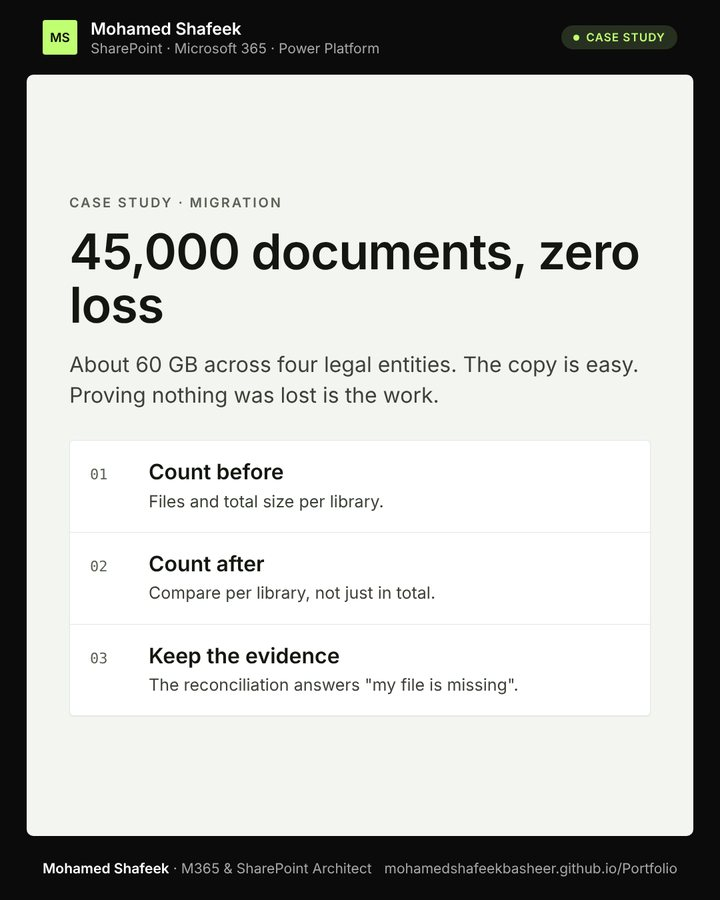
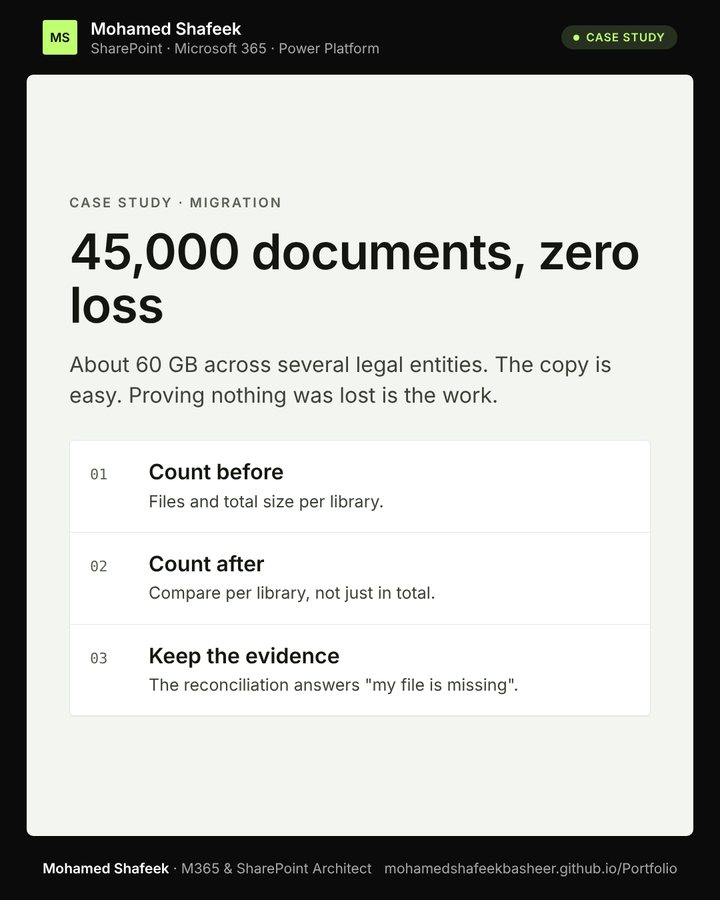
Take client, region and dates out of the case studies
Case studies now show the area of work and the platform instead of the
client, region and dates, and their text no longer describes the client
organisation or where it is, so a project can't be matched to an employer
on LinkedIn. The note versions of the case studies follow the same rule.

Claude-Session: https://claude.ai/code/session_01T1K7vMm3kBfTxoGymEFp43

Changed region(s): [[0.0917, 0.3733, 0.8861, 0.4667]]

diff --git a/src/pages.jsx b/src/pages.jsx
@@ -21,16 +21,15 @@ function CaseTable({ items }) {
     <div className="tableWrap">
       <table className="table">
         <thead>
-          <tr><th scope="col">Ref</th><th scope="col">Engagement</th><th scope="col" className="hideMd">Client</th><th scope="col" className="hideSm">Region</th><th scope="col" className="hideMd">Length</th><th scope="col">Status</th></tr>
+          <tr><th scope="col">Ref</th><th scope="col">Engagement</th><th scope="col" className="hideMd">Area</th><th scope="col" className="hideSm">Platform</th><th scope="col">Status</th></tr>
         </thead>
         <tbody>
           {items.map((w) => (
             <tr key={w.slug}>
               <td className="cellRef">{w.ref}</td>
               <td className="wrap"><Link href={`/work/${w.slug}/`}>{w.title}</Link></td>
-              <td className="cellMuted hideMd">{w.client}</td>
-              <td className="cellMuted hideSm">{w.region}</td>
-              <td className="cellMuted hideMd">{w.duration}</td>
+              <td className="cellMuted hideMd">{w.kind}</td>
+              <td className="cellMuted hideSm">{w.stack.slice(0, 3).join(", ")}</td>
               <td><StatusPill status={w.status} /></td>
             </tr>
           ))}
@@ -172,9 +171,8 @@ function Case({ c }) {
           <p className="reportLede">{c.summary}</p>
         </header>
         <dl className="facts">
-          <div><dt>Client</dt><dd>{c.client}</dd></div>
-          <div><dt>Region</dt><dd>{c.region}</dd></div>
-          <div><dt>Length</dt><dd>{c.duration}</dd></div>
+          <div><dt>Area</dt><dd>{c.kind}</dd></div>
+          <div><dt>Platform</dt><dd>{c.stack.slice(0, 4).join(", ")}</dd></div>
           <div><dt>Result</dt><dd>{c.result}</dd></div>
         </dl>
 
@@ -208,7 +206,7 @@ function Case({ c }) {
         </section>
 
         <footer className="reportFoot">
-          {c.ref} · {SITE.name} · Figures are from the delivery records of the engagement. Some clients are anonymised.
+          {c.ref} · {SITE.name} · Figures are from the delivery records of the engagement. Client details are kept confidential.
         </footer>
       </article>
 

diff --git a/src/styles.css b/src/styles.css
@@ -323,7 +323,7 @@ h3 { font-size: var(--ms-size-h3); }
 .reportMeta { display: flex; flex-wrap: wrap; align-items: center; gap: var(--ms-space-2) var(--ms-space-3); margin-bottom: var(--ms-space-3); }
 .reportTitle { font-size: var(--ms-size-h1); }
 .reportLede { font-size: var(--ms-size-lede); line-height: var(--ms-leading-read); margin: var(--ms-space-3) 0 0; }
-.facts { display: grid; grid-template-columns: repeat(4, minmax(0, 1fr)); margin: 0; background: var(--ms-mist); border-bottom: 1px solid var(--ms-hairline-light); }
+.facts { display: grid; grid-template-columns: repeat(3, minmax(0, 1fr)); margin: 0; background: var(--ms-mist); border-bottom: 1px solid var(--ms-hairline-light); }
 .facts div { padding: var(--ms-space-3) var(--ms-space-6); border-left: 1px solid var(--ms-hairline-light); }
 .facts div:first-child { border-left: 0; }
 .facts dt { font-size: var(--ms-size-micro); font-weight: var(--ms-weight-semibold); letter-spacing: var(--ms-tracking-eyebrow); text-transform: uppercase; color: var(--ms-text-on-light-muted); }

diff --git a/content/posts/2026-12-16-change-control-lessons.md b/content/posts/2026-12-16-change-control-lessons.md
@@ -3,10 +3,10 @@ title: "What formal change control taught me about speed"
 slug: change-control-lessons
 date: 2026-12-16
 summary: Formal change requests, scheduled releases and documentation felt slow at first. They are also why we delivered 10+ apps and 50+ workflows with zero compliance breaches. Good process is what lets you keep going fast.
-description: "Lessons from formal change control at a Big Four firm: how change requests, scheduled releases and documentation helped ship 10+ Power Apps safely."
+description: "Lessons from formal change control in a large enterprise: how change requests, scheduled releases and documentation helped ship 10+ Power Apps safely."
 tags: [Power Platform, Career, Governance]
 ---
-At a Big Four global delivery centre I led a **Risk Management module** that used **Microsoft Copilot** for AI-assisted release analysis and approvals, and built **10+ Power Apps** with **50+ Power Automate workflows**.
+On a large enterprise programme I led a **Risk Management module** that used **Microsoft Copilot** for AI-assisted release analysis and approvals, and built **10+ Power Apps** with **50+ Power Automate workflows**.
 
 The technical work was interesting. What changed how I work was the **process** around it.
 
@@ -34,7 +34,7 @@ Moving fast without process feels quick for a few months. Then something breaks,
 
 ## What I carry into smaller teams
 
-You don't need a Big Four firm's full process in a team of one or five. But a lightweight version pays off everywhere:
+You don't need a large enterprise's full process in a team of one or five. But a lightweight version pays off everywhere:
 
 1. **A short change note** for anything that touches production: what, why, and how to undo it.
 2. **A test environment** for Power Platform (a separate environment, with solutions moved between them) instead of building in production.

diff --git a/content/posts/2026-12-19-sharepoint-permission-audit-with-powershell.md b/content/posts/2026-12-19-sharepoint-permission-audit-with-powershell.md
@@ -2,11 +2,11 @@
 title: "Auditing SharePoint permissions with PowerShell"
 slug: sharepoint-permission-audit-with-powershell
 date: 2026-12-19
-summary: For five companies on one Microsoft 365 tenant, "who has access to what?" took days to answer. A PowerShell permission audit turned it into something you run, not a project you dread. The approach, and a small script to start with.
-description: "How a PowerShell and CSOM permission audit made 'who has access to what?' answerable across five companies, plus a PnP PowerShell starter script."
+summary: For several companies on one Microsoft 365 tenant, "who has access to what?" took days to answer. A PowerShell permission audit turned it into something you run, not a project you dread. The approach, and a small script to start with.
+description: "How a PowerShell and CSOM permission audit made 'who has access to what?' answerable across several companies, plus a PnP PowerShell starter script."
 tags: [PnP PowerShell, SharePoint Online, Governance, Case study]
 ---
-In a multi-company group where I work, five companies share one Microsoft 365 tenant. "Who has access to what?" was a question nobody could answer quickly. Every audit request meant clicking through sites by hand.
+In one recent project, several companies shared one Microsoft 365 tenant. "Who has access to what?" was a question nobody could answer quickly. Every audit request meant clicking through sites by hand.
 
 So I built a **PowerShell and CSOM permission audit framework**, and alongside it, **Conditional Access** and **DLP** baselines for the tenant.
 

diff --git a/content/posts/2026-12-06-proving-zero-loss-in-a-sharepoint-migration.md b/content/posts/2026-12-06-proving-zero-loss-in-a-sharepoint-migration.md
@@ -6,7 +6,7 @@ summary: Copying 45,000 documents is the easy part of a migration. Proving that 
 description: "How to prove nothing was lost in a SharePoint migration: counts and sizes per library before and after, and a reconciliation you can show people."
 tags: [Migration, SharePoint Online, Case study]
 ---
-For a multi-company group, I moved more than **45,000 documents (about 60 GB)** across **four legal entities** into a new structure. The migration finished with **verified zero loss**.
+I recently moved more than **45,000 documents (about 60 GB)** across **several legal entities** into a new structure. The migration finished with **verified zero loss**.
 
 The copying itself was the easy part. Tools do that. The part that matters, and the part people skip, is **proving** nothing was lost.
 
@@ -45,7 +45,7 @@ This is your evidence. Store it with the project records.
 
 ## The result
 
-45,000+ documents, four legal entities, reorganised into a new structure, with a reconciliation showing **zero loss**. When questions came later, the answer was in the document.
+45,000+ documents, several legal entities, reorganised into a new structure, with a reconciliation showing **zero loss**. When questions came later, the answer was in the document.
 
 The [case study](/work/group-document-migration/) has a short summary.
 

diff --git a/content/posts/2026-12-09-lessons-from-a-sharepoint-oversharing-incident.md b/content/posts/2026-12-09-lessons-from-a-sharepoint-oversharing-incident.md
@@ -6,7 +6,7 @@ summary: A partner company could reach a client's internal files in SharePoint a
 description: "How a SharePoint and OneDrive oversharing incident was audited, every unauthorised share removed within 48 hours, and governance tightened."
 tags: [Security, SharePoint Online, Governance, Case study]
 ---
-I led a Microsoft 365 security audit for a Canadian client after a live incident. An external sharing setting in SharePoint Online had been left too open, and **internal documents were reachable by users at a partner organisation**. The exposure ran across several site collections.
+I led a Microsoft 365 security audit for a client after a live incident. An external sharing setting in SharePoint Online had been left too open, and **internal documents were reachable by users at a partner organisation**. The exposure ran across several site collections.
 
 Nobody knew exactly how far it went. The first job was to find out, quickly, and stop it.
 

diff --git a/content/posts/2026-12-12-safe-invoice-automation-dynamics-365.md b/content/posts/2026-12-12-safe-invoice-automation-dynamics-365.md
@@ -6,7 +6,7 @@ summary: Posting vendor invoices into Dynamics 365 Finance & Operations with Pow
 description: "Lessons from automating vendor invoice posting into Dynamics 365 F&O: duplicate prevention, retries and Teams alerts for automation that touches money."
 tags: [Power Automate, Dynamics 365, Power Platform, Case study]
 ---
-For a multi-company group, I built a Power Platform integration that posts **vendor invoices into Dynamics 365 Finance & Operations**.
+I built a Power Platform integration that posts **vendor invoices into Dynamics 365 Finance & Operations**.
 
 Getting an invoice from one system into the other was the simple part. **Making it safe** took most of the work, because when automation touches money, the failure cases matter more than the happy path.
 

diff --git a/content/posts/2026-12-03-retiring-infopath-what-worked.md b/content/posts/2026-12-03-retiring-infopath-what-worked.md
@@ -8,7 +8,7 @@ tags: [InfoPath, SharePoint Online, Power Automate, Case study]
 ---
 InfoPath has been retired for years, yet many companies still run real business processes on it: requests, approvals, checklists. While it works, nobody touches it. When something breaks after support ends, there is nobody to fix it.
 
-At a multi-company industrial group where I work, there were **8 InfoPath forms** used by **more than 500 people across 15 departments**. All 8 were live in modern SharePoint before the deadline. Here is what worked.
+In one recent project there were **8 InfoPath forms** used by **more than 500 people across 15 departments**. All 8 were live in modern SharePoint before the deadline. Here is what worked.
 
 ## 1. Make the list first
 

diff --git a/content/posts/2026-11-29-contract-platform-on-spfx-and-azure.md b/content/posts/2026-11-29-contract-platform-on-spfx-and-azure.md
@@ -6,7 +6,7 @@ summary: How a contract process that took several days became a few minutes, usi
 description: "How SPFx, Azure Functions, Key Vault and DocuSign took a contract process from several days to minutes, and the firewall gap that held it up."
 tags: [SPFx, Azure Functions, SharePoint Online, Case study]
 ---
-At a multi-company industrial group where I work, turning margin contribution figures into a signed contract used to take several days of manual work.
+In one recent project, turning margin contribution figures into a signed contract used to take several days of manual work.
 
 The data needed already existed, in an internal Azure SQL data warehouse. It just wasn't connected to the process.
 
